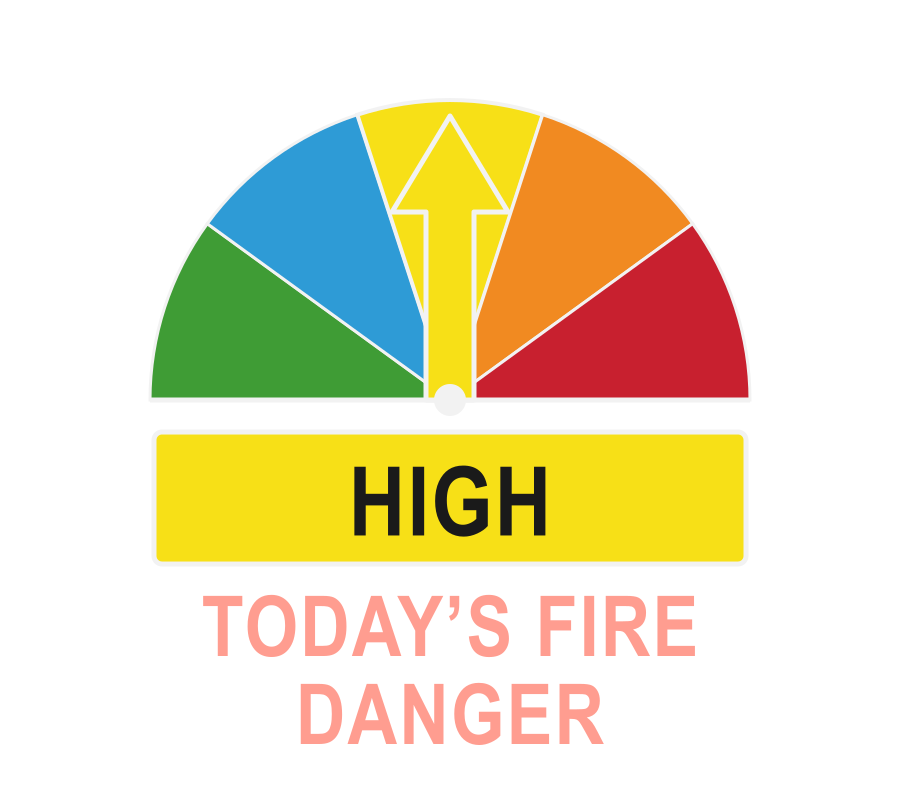
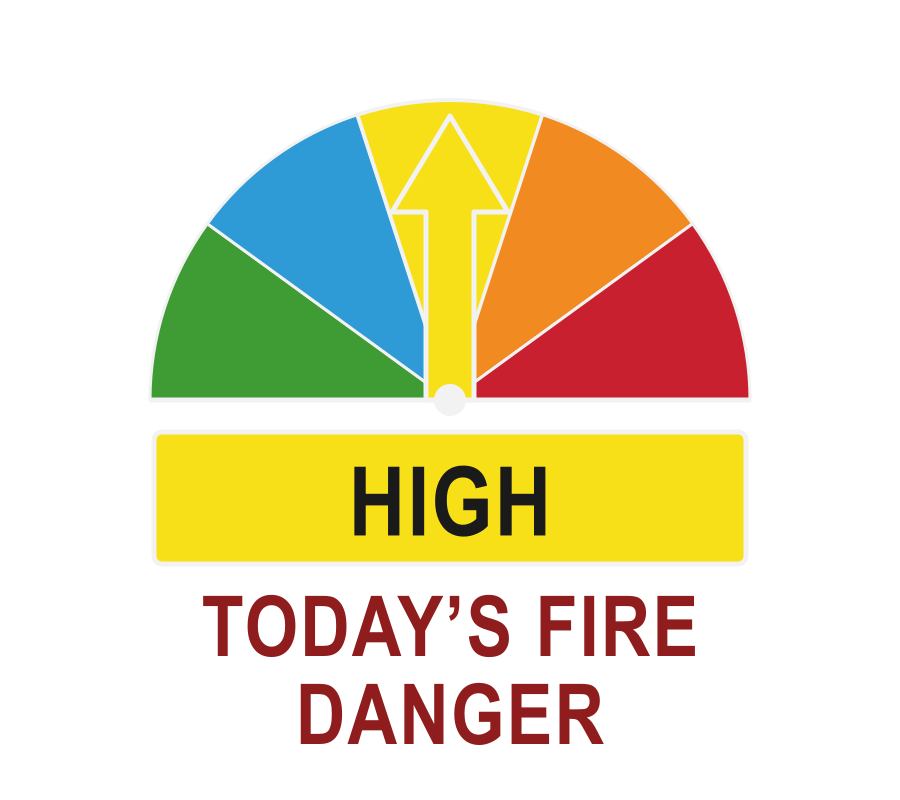
The dark-page title keeps its red, and gets a white edge
Tinting it to a pale pink to survive a dark background changed the one
color on the sign that is ours. The red stays; it is cut out from the dark
with a white outline instead, which is how the word on a roadside sign is
made to read against whatever is behind it.

Light version untouched -- it has no outline and needs none.

Changed region(s): [[0.2178, 0.7188, 0.7778, 0.9375]]

diff --git a/scripts/fire-danger-signs.py b/scripts/fire-danger-signs.py
@@ -53,8 +53,13 @@ FONT = "Oswald, 'Arial Narrow', 'Helvetica Neue', Arial, sans-serif"
 # What changes between the two versions: the outlines and the two runs of
 # text that sit on the transparent background. Nothing else.
 THEMES = {
-    "": {"line": "#1a1a1a", "label": "#1a1a1a", "title": "#8f1d1d"},
-    "-on-dark": {"line": "#f2f2f2", "label": "#ffffff", "title": "#ff9d90"},
+    "": {"line": "#1a1a1a", "label": "#1a1a1a", "title": "#8f1d1d",
+         "title_edge": "none", "title_edge_w": 0},
+    # The title keeps its red on a dark page and is cut out from it with a
+    # white edge instead, rather than being tinted to something paler. The red
+    # is the one thing on the sign that is the Alliance's own color.
+    "-on-dark": {"line": "#f2f2f2", "label": "#ffffff", "title": "#8f1d1d",
+                 "title_edge": "#ffffff", "title_edge_w": 8},
 }
 
 
@@ -73,6 +78,7 @@ def wedge(i):
 
 def sign(slug, label, color, ink, index, theme, suffix):
     line, label_ink, title_ink = theme["line"], theme["label"], theme["title"]
+    edge, edge_w = theme["title_edge"], theme["title_edge_w"]
     mid = 180 + 36 * index + 18          # the middle of this level's wedge
     turn = mid - 270                     # the pointer is drawn upright, then turned
 
@@ -129,9 +135,11 @@ def sign(slug, label, color, ink, index, theme, suffix):
           paint-order="stroke" letter-spacing="2">{label}</text>
 
     <text x="{CX}" y="{BANNER_TOP + 224}" text-anchor="middle" font-family="{FONT}"
-          font-size="84" font-weight="700" fill="{title_ink}" letter-spacing="2">TODAY&#8217;S FIRE</text>
+          font-size="84" font-weight="700" fill="{title_ink}" stroke="{edge}" stroke-width="{edge_w}"
+          stroke-linejoin="round" paint-order="stroke" letter-spacing="2">TODAY&#8217;S FIRE</text>
     <text x="{CX}" y="{BANNER_TOP + 312}" text-anchor="middle" font-family="{FONT}"
-          font-size="84" font-weight="700" fill="{title_ink}" letter-spacing="2">DANGER</text>
+          font-size="84" font-weight="700" fill="{title_ink}" stroke="{edge}" stroke-width="{edge_w}"
+          stroke-linejoin="round" paint-order="stroke" letter-spacing="2">DANGER</text>
 </svg>
 '''
 
